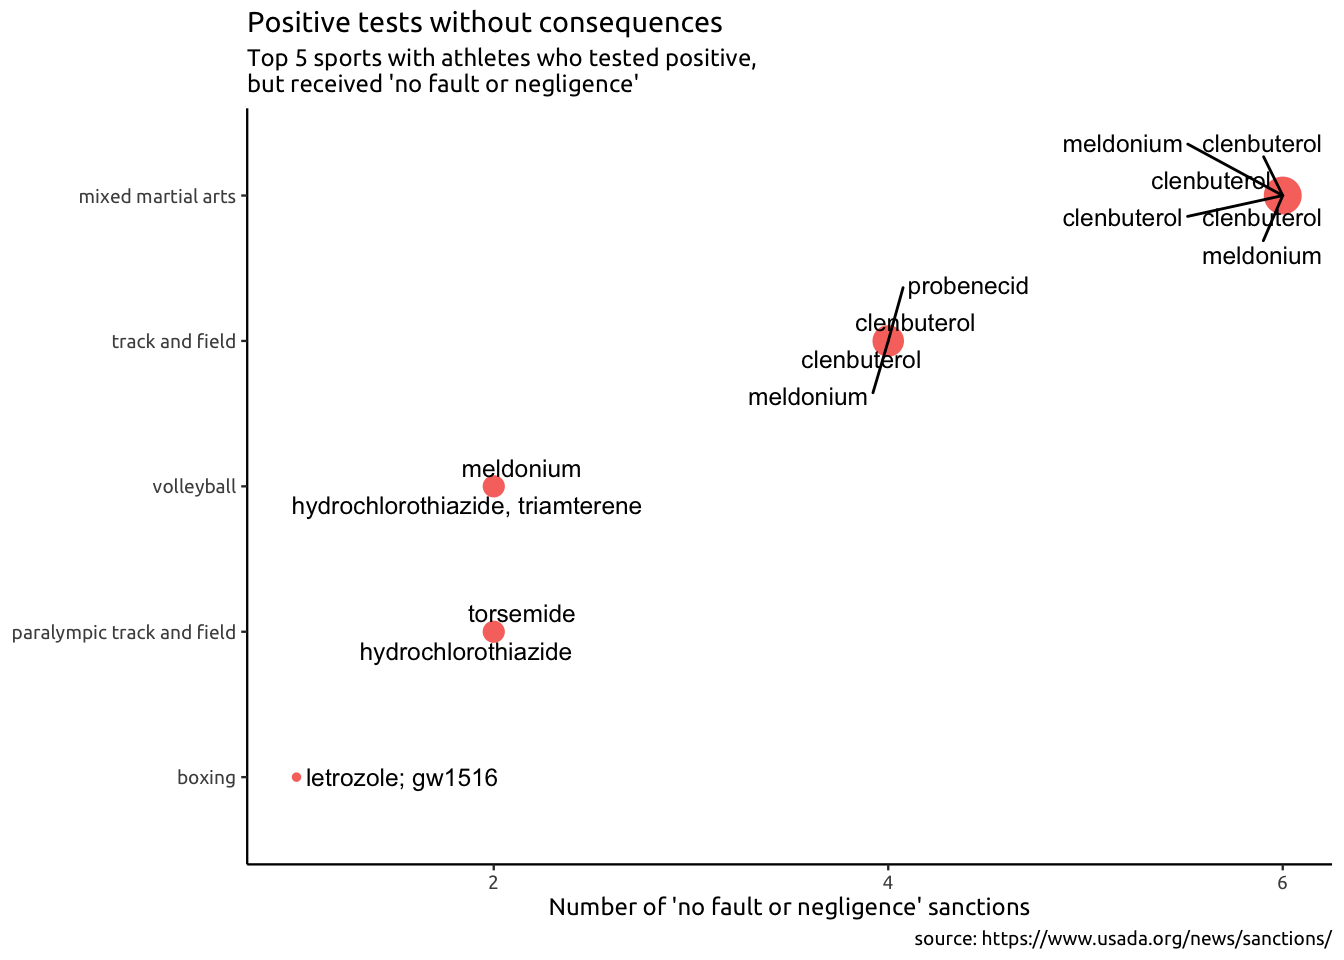
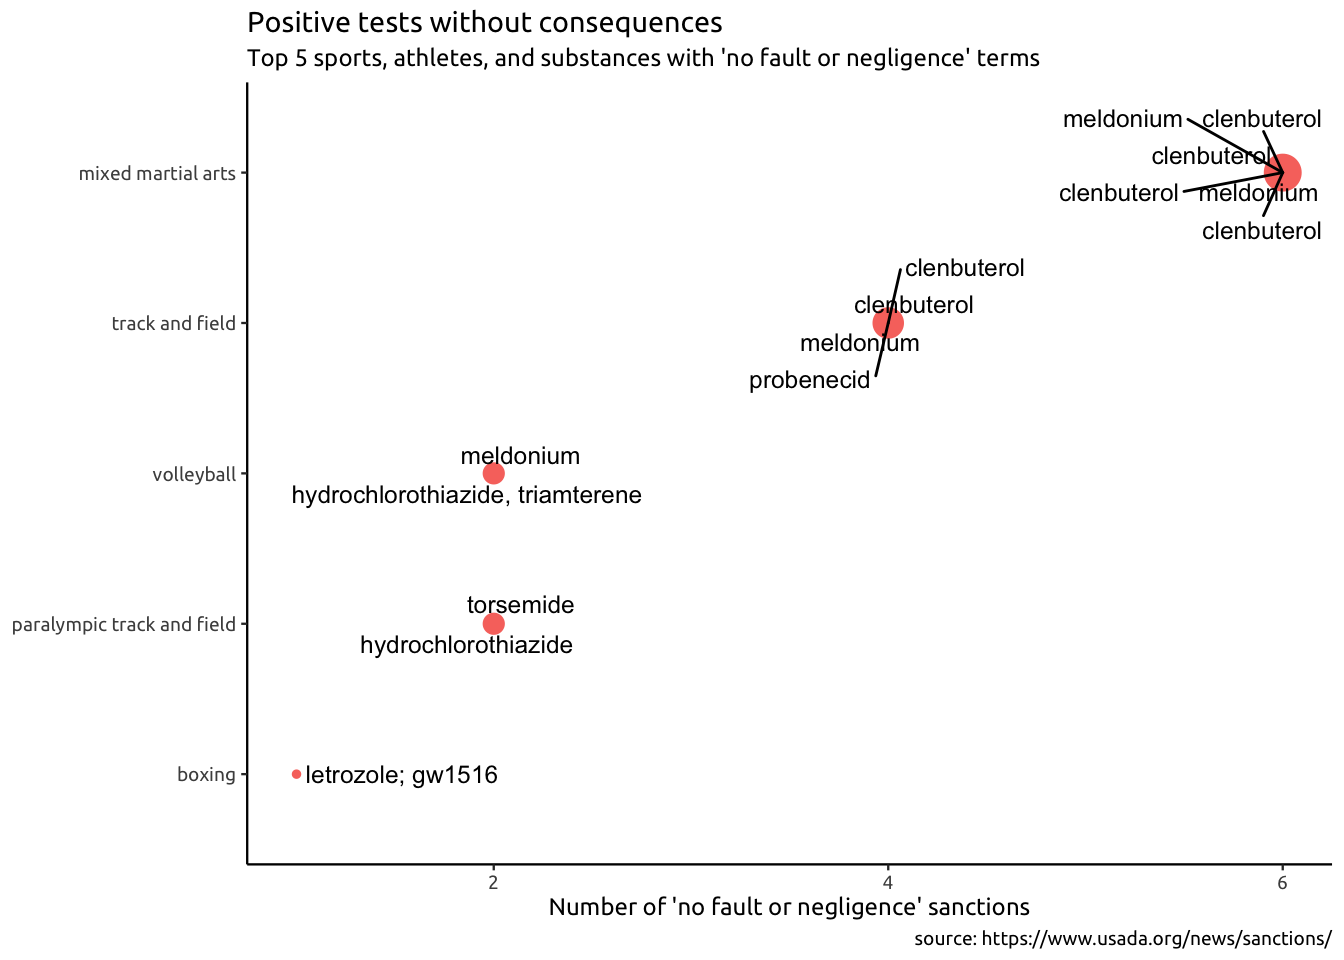
new caption

diff --git a/content/post/2020-06-13-how-to-download-html-tables-with-rvest-and-xml2.html b/content/post/2020-06-13-how-to-download-html-tables-with-rvest-and-xml2.html
@@ -129,13 +129,13 @@ utils::head(Usada)</code></pre>
 <p>I will get a quick count and visualize these with</p>
 <pre class="r"><code>UsadaNoFaults &lt;- Usada %&gt;% 
   dplyr::filter(stringr::str_detect(string = sanction_terms, 
-                                      pattern = &quot;^no fault or negligence$&quot;)) %&gt;% 
+                                    pattern = &quot;^no fault or negligence$&quot;)) %&gt;% 
                                       # replace &amp; with and
-              dplyr::mutate(sport = stringr::str_replace_all(string = sport, 
-                                                             # replace this
-                                                           pattern = &quot;&amp;&quot;, 
-                                                             # with this
-                                                           replacement = &quot;and&quot;))</code></pre>
+  dplyr::mutate(sport = stringr::str_replace_all(string = sport, 
+                                         # replace this
+                                       pattern = &quot;&amp;&quot;, 
+                                         # with this
+                                       replacement = &quot;and&quot;))</code></pre>
 </div>
 <div id="graph-sanction-terms-and-substances" class="section level2">
 <h2>Graph sanction terms and substances</h2>
@@ -173,7 +173,7 @@ UsadaNoFaults %&gt;%
   ggplot2::labs(y = &quot;Number of &#39;no fault or negligence&#39; sanctions&quot;,
                 x = NULL, 
                 title = &quot;Positive tests without consequences&quot;, 
-                subtitle = &quot;Top 5 sports with athletes who tested positive,\nbut received &#39;no fault or negligence&#39;&quot;,
+                subtitle = &quot;Top 5 sports, athletes, and substances with &#39;no fault or negligence&#39; terms&quot;,
                 caption = &quot;source: https://www.usada.org/news/sanctions/&quot;) +
   ggplot2::coord_flip() +
   ggplot2::theme_classic(base_size = 9, 

diff --git a/public/post/how-to-split-and-tidy-column-contents/index.html b/public/post/how-to-split-and-tidy-column-contents/index.html
@@ -202,13 +202,13 @@ utils::head(Usada)</code></pre>
 <p>I will get a quick count and visualize these with</p>
 <pre class="r"><code>UsadaNoFaults &lt;- Usada %&gt;% 
   dplyr::filter(stringr::str_detect(string = sanction_terms, 
-                                      pattern = &quot;^no fault or negligence$&quot;)) %&gt;% 
+                                    pattern = &quot;^no fault or negligence$&quot;)) %&gt;% 
                                       # replace &amp; with and
-              dplyr::mutate(sport = stringr::str_replace_all(string = sport, 
-                                                             # replace this
-                                                           pattern = &quot;&amp;&quot;, 
-                                                             # with this
-                                                           replacement = &quot;and&quot;))</code></pre>
+  dplyr::mutate(sport = stringr::str_replace_all(string = sport, 
+                                         # replace this
+                                       pattern = &quot;&amp;&quot;, 
+                                         # with this
+                                       replacement = &quot;and&quot;))</code></pre>
 </div>
 <div id="graph-sanction-terms-and-substances" class="section level2">
 <h2>Graph sanction terms and substances</h2>
@@ -246,7 +246,7 @@ UsadaNoFaults %&gt;%
   ggplot2::labs(y = &quot;Number of &#39;no fault or negligence&#39; sanctions&quot;,
                 x = NULL, 
                 title = &quot;Positive tests without consequences&quot;, 
-                subtitle = &quot;Top 5 sports with athletes who tested positive,\nbut received &#39;no fault or negligence&#39;&quot;,
+                subtitle = &quot;Top 5 sports, athletes, and substances with &#39;no fault or negligence&#39; terms&quot;,
                 caption = &quot;source: https://www.usada.org/news/sanctions/&quot;) +
   ggplot2::coord_flip() +
   ggplot2::theme_classic(base_size = 9, 
